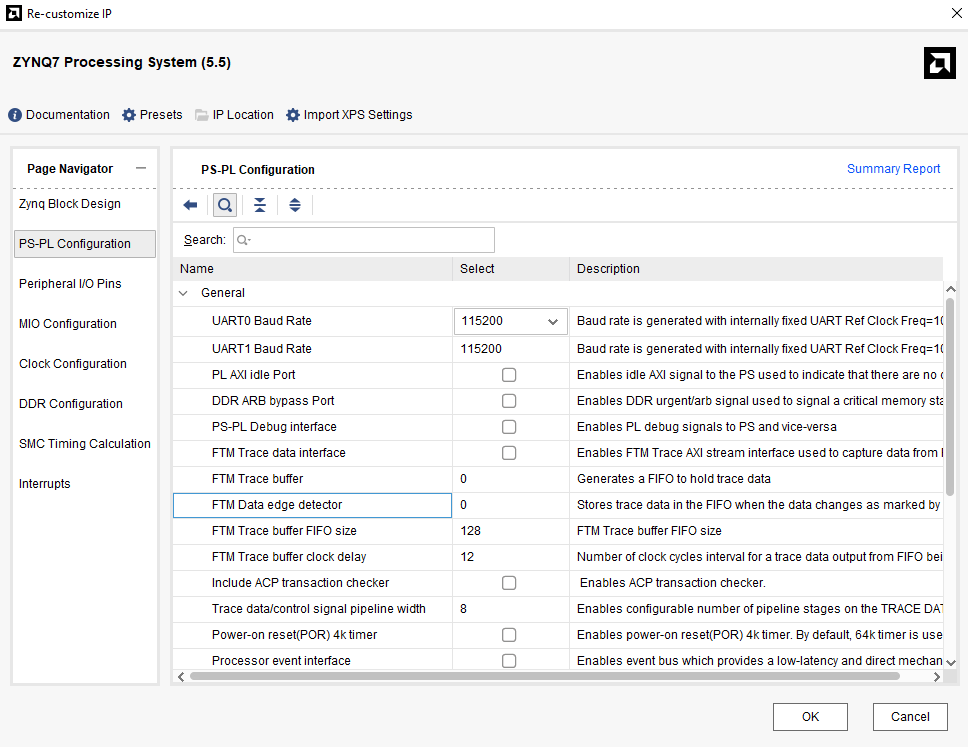
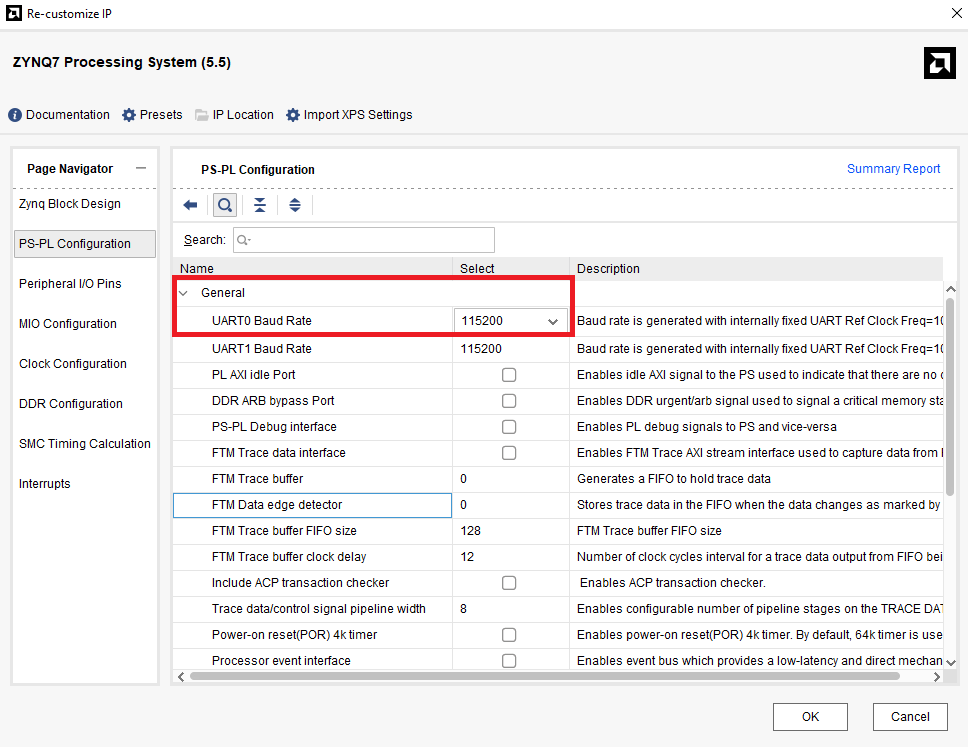
Add images for UART application and configuration steps in README.md

Changed region(s): [[0.155, 0.3695, 0.6198, 0.4618]]

diff --git a/Hardware-Software-Codesign/Part1-Zynq-Processor/README.md b/Hardware-Software-Codesign/Part1-Zynq-Processor/README.md
@@ -19,7 +19,7 @@ Zynq 不僅是一顆 FPGA，它還內建了完整的處理系統，包括：
 -   開發者可以透過 **Vivado Block Design** 中的 **ZYNQ7 Processing System IP** 對 PS 做配置，例如選擇是否開啟 USB、Ethernet、UART、SD 卡等功能。
 
 
-## Part1.1 Running a Basic UART Application on Zynq PS
+## Part 1.1 Running a Basic UART Application on Zynq PS
 
 在本次實作中，我們將示範如何**僅使用 Zynq PS（Processing System）** 的資源 **（不連接 PL 邏輯）**，利用 ARM Cortex-A9 處理器進行簡單的資料處理並透過 UART 傳回結果。
 
@@ -57,4 +57,130 @@ Zynq 不僅是一顆 FPGA，它還內建了完整的處理系統，包括：
     >   -   具有獨立的供電電壓（如 3.3V、1.8V）所屬腳位必須使用同樣的電壓等級
     >   -  每個 Bank 的腳位支援的 I/O 標準（LVCMOS33、LVCMOS18 等）根據電壓而異  
 
-7.  點選左側 `PS-PL Configuration -> General -> UART0 Baud Rate` 可以設定 UART 的 Baud Rate，
+7.  點選左側 `PS-PL Configuration -> General -> UART0 Baud Rate` 可以設定 UART 的 Baud Rate  
+
+    ![Baud_Rate](./png/Baud_Rate.png)  
+
+8.  點選左側 `Clock Configuration -> PL Fabric Clocks -> FCLK_CLK0取消勾選`   
+
+    ![FCLK](./png/FCLK.png)  
+
+    >   📌 FCLK (Fabric Clock) 是什麼？
+    >
+    >FCLK_CLK 是由 Zynq 的 Processing System 內部產生的Clock訊號，通常提供給 Programmable Logic 使用。
+    >
+    >這次的設計是純 PS、未使用 PL 電路，可以將 FCLK_CLK 關閉，以簡化系統資源與 P&R。
+    >
+    >若日後有需要由 PS 提供 clock 給 PL，再啟用 FCLK_CLK 即可。  
+
+9.  `PS-PL Configurations -> General -> Enable Clock Resets -> FCLK_RESET0_N` 取消勾選   
+`PS-PL Configurations -> AXI Non Secure Enablement -> GP Master AXI Interface -> M AXI GP0 Interface` 取消勾選  
+
+    ![RESET_GP0](./png/RESET_GP0.png)
+    
+10. 修改完成後，PS最後會長如下圖  
+
+    ![PS_Done](./png/PS_Done.png)
+
+11. 將完成的 block design 包成 HDL wrapper  
+
+    ![Create_Wrapper](./png/Create_Wrapper.png)
+
+12. Run Implementation，按下 `PROJECT MANAGER > Run Implementation`，即完成本次設計
+
+    ![Run_Implementation](./png/Run_Implementation.png)
+
+13. Implementation 完後，點選上方 `File > Export > Export Hardware`  
+
+    ![Export_Hardware](./png/Export_Hardware.png)
+
+    >   📌 為什麼這裡可以不產生 Bitstream?  
+    >   Bitstream 是用來「配置 FPGA 的 Programmable Logic」。
+    >   如果你只用 PS（例如 ARM Cortex-A9 跑一段 UART 程式），完全沒有用到 PL，就不需要產生 .bit 檔，也不需要下載到 PL 裡。  
+    >   Bitstream介紹在 [Vivado-Tutorial/Part3-FPGA-Design-Flow](../../Vivado-Tutorial/Part3-FPGA-Design-Flow/) 可回去複習
+
+## Part 1.2 Vitis Project
+
+1.  在電腦中搜尋 `Vitis 2023.2` 並打開
+
+    ![Search_Vitis](./png/Search_Vitis.png)
+
+2.  點選 `Open Workspace`， 並在你的 Vivado Project 裡面創建 `workspace` 或是你自己想要的地方也可以  
+
+    ![workspace](./png/workspace.png)
+
+3.  建立新的 `Platform Component (Hardware)`  
+
+    ![Platform_Component](./png/Platform_Create.png)
+
+4.  選擇剛剛 export hardware 位置的 `*.xsa`  
+
+    ![XSA_Select](./png/XSA_Select.png)
+
+5.  Operating System: `standlone`  
+    Processor: `ps7_cortexa9_0`
+
+    ![OS_select](./png/OS_Select.png)
+
+6.  創建好 `Platform Component` 後將如下圖
+
+    ![Platform_Done](./png/Platform_Done.png)
+
+    >   📌 What's Platform Component?  
+    >   Platform Component 是在 Vitis 中用來描述硬體平台的一個元件，它是根據你從 Vivado 匯出的 .xsa 檔（Hardware Specification + Bitstream）所建立的，並提供給後續 Application Project 使用的硬體基礎環境。
+    >
+    >   一個 Platform Component 通常包含：
+    >
+    >   -   匯入的 .xsa 硬體描述檔案
+    >
+    >   -   可選的 boot 元件（如 FSBL、PMUFW）
+    >
+    >   -   Domain 設定（ARM Core / 作業系統 / 編譯工具鏈）  
+
+7.  Create `Application Project (software)`  
+
+    ![Create_Application](./png/Create_Application.png)
+
+8.  選擇剛剛完成的 platform  
+
+    ![Choose_Platform](./png/Choose_Platform.png)
+
+    >   Note: 每一個 `Application Project (Software)` 都必須建立在一個 `Platform` 之上  
+    
+9.  建立完 `Application Project` 後，將如下圖所示
+
+    ![Application_Done](./png/Application_Done.png)
+
+10. 先 `build platform`  
+
+    ![Build_Platform](./png/Build_Platform.png)  
+
+    `Build Platform` 後，可以將目前開起來的 `helloworld.c` tab 關掉重開，`file not found` 的問題基本上就會解決了
+
+    ![Build_Done](./png/Build_Done.png)
+
+    再 `build application`
+
+    ![Bulid_APP](./png/Build_APP.png)
+
+## Part 1.3 Run the Program
+
+1.  將 PYNQ-z2 接上電腦並將開機配置成 `JTAG` (8號區 Jumper)  
+
+    ![PYNQ](./png/PYNQ.jpg)  
+
+2.  開啟 `MobaXterm` 並選擇建立 `Serial` 連線，Baud Rate 設置成 `115200`， COM port 則根據你的 FPGA 連接在哪個 COM port 自己決定  
+
+    ![Serial_Setting](./png/Serial_Setting.png)  
+
+    建立連線  
+
+    ![Create_Connection](./png/Create_Connection.png)
+
+3.  回到 `Vitis` 點選 Run  
+
+    ![Run](./png/Run.png)
+
+4.  即可在 `MobaXterm` 看到 "Hello World!" 的結果  
+
+    ![Hello_World](./png/Hello_World.png)
